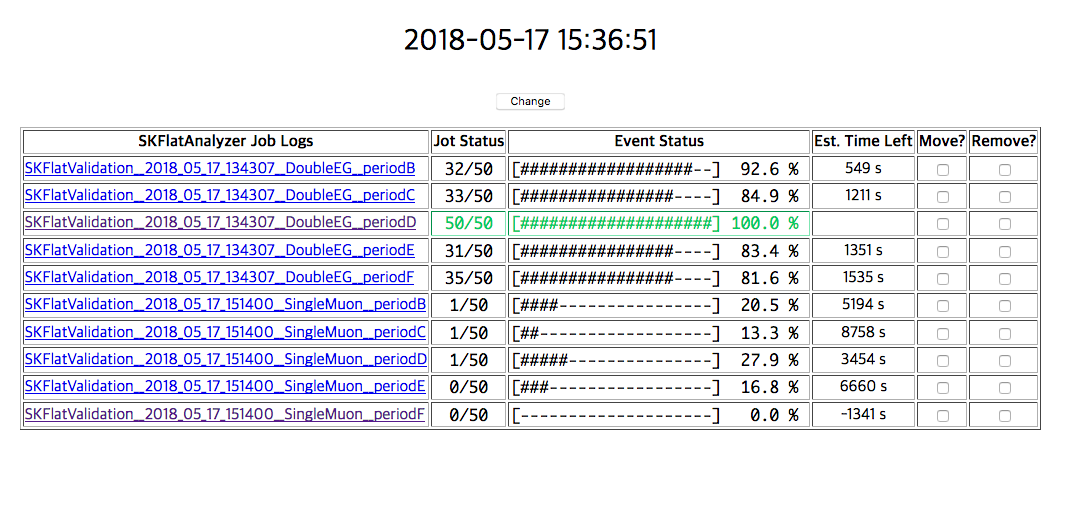
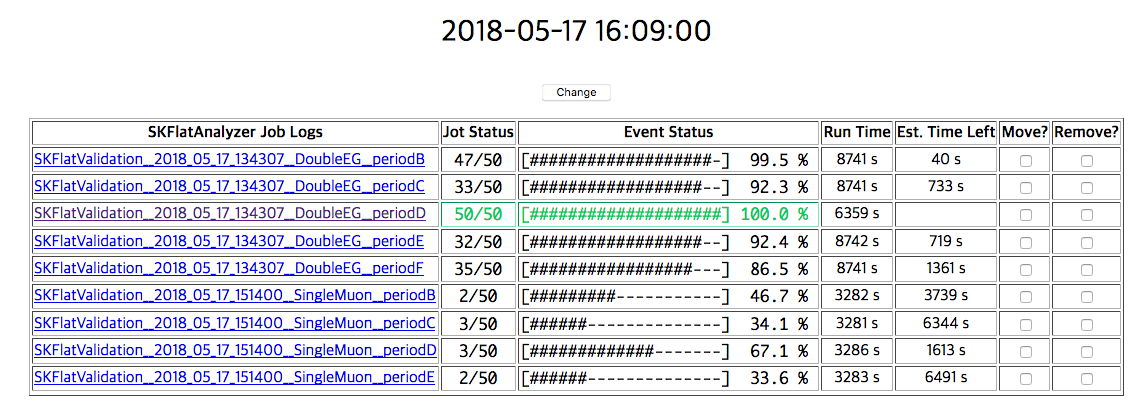
add run time

diff --git a/make_html.py b/make_html.py
@@ -86,6 +86,7 @@ print>>out,'''<!DOCTYPE html>
     <th><a name="LHE Log files">SKFlatAnalyzer Job Logs</a></th>
     <th>Jot Status</th>
     <th>Event Status</th>
+    <th>Run Time</th>
     <th>Est. Time Left</th>
     <th>Move?</th>
     <th>Remove?</th>
@@ -113,7 +114,7 @@ for jobdir in jobdirs:
   n_finished = 0
   event_done = 0
   event_total = 0
-  EstTime=""
+  line_EstTime=""
 
   nfound=0
   for i in range(0,nlines):
@@ -136,7 +137,7 @@ for jobdir in jobdirs:
       event_total = int(loglines[j].split()[2])
       nfound += 1
     if "Estimted Finishing Time" in loglines[j]:
-      EstTime = loglines[j].replace('Estimted Finishing Time : ','')
+      line_EstTime = loglines[j].replace('Estimted Finishing Time : ','')
       nfound += 1
 
   n_total = n_running+n_finished
@@ -175,19 +176,47 @@ for jobdir in jobdirs:
 
 
   ## calculate est time
-  esttime_words = EstTime.split()
-  days = esttime_words[0].split('-')
-  times = esttime_words[1].split(':')
-  FinishingTime = datetime.datetime(int(days[0]),int(days[1]),int(days[2]),int(times[0]),int(times[1]),int(times[2]))
-  LeftTime = FinishingTime-Now
-
-  left_days = LeftTime.days
-  left_seconds = LeftTime.seconds
-  left_hours = left_seconds/3600
-  left_minutes = (left_seconds-3600*left_hours)/60
-  left_seconds = left_seconds-3600*left_hours-left_minutes*60
+  esttime_words = line_EstTime.split()
+  esttime_days = esttime_words[0].split('-')
+  esttime_times = esttime_words[1].split(':')
+  EstTime = datetime.datetime(int(esttime_days[0]),int(esttime_days[1]),int(esttime_days[2]),int(esttime_times[0]),int(esttime_times[1]),int(esttime_times[2]))
+  LeftTime = EstTime-Now
 
   left_inseconds = 86400*LeftTime.days+LeftTime.seconds
+
+  ## find total run time
+  line_StartTime = ""
+  for i in range(0,nlines):
+    if "Job started at" in loglines[i]:
+      line_StartTime = loglines[i].replace('Job started at ','')
+      break
+  starttime_words = line_StartTime.split()
+  starttime_days = starttime_words[0].split('-')
+  starttime_times = starttime_words[1].split(':')
+  StartTime = datetime.datetime(int(starttime_days[0]),int(starttime_days[1]),int(starttime_days[2]),int(starttime_times[0]),int(starttime_times[1]),int(starttime_times[2]))
+
+  line_LastCheckTime = ""
+  for i in range(0,nlines):
+    if "Last checket at" in loglines[i]:
+      line_LastCheckTime = loglines[i].replace('Last checket at ','')
+      break
+  lastchecktime_words = line_LastCheckTime.split()
+  lastchecktime_days = lastchecktime_words[0].split('-')
+  lastchecktime_times = lastchecktime_words[1].split(':')
+  LastCheckTime = datetime.datetime(int(lastchecktime_days[0]),int(lastchecktime_days[1]),int(lastchecktime_days[2]),int(lastchecktime_times[0]),int(lastchecktime_times[1]),int(lastchecktime_times[2]))
+
+  TotalRunTime = LastCheckTime-StartTime
+  totalrun_days = TotalRunTime.days
+  totalrun_seconds = TotalRunTime.seconds
+  totalrun_hours = totalrun_seconds/3600
+  totalrun_minutes = (totalrun_seconds-3600*totalrun_hours)/60
+  totalrun_seconds = totalrun_seconds-3600*totalrun_hours-totalrun_minutes*60
+  totalrun_inseconds = 86400*TotalRunTime.days+TotalRunTime.seconds
+
+  ## column : total run time; e.g., *d *h *m *s
+  string_totalrun = str(totalrun_days)+'d'+str(totalrun_hours)+'h'+str(totalrun_minutes)+'m'+str(totalrun_seconds)+'s'
+  #out.write('    <td align="center">'+string_totalrun+'</td>\n')
+  out.write('    <td align="center">'+str(totalrun_inseconds)+' s</td>\n')
 
   ## column : est. time; e.g., 254 s
   if IsAllDone:
